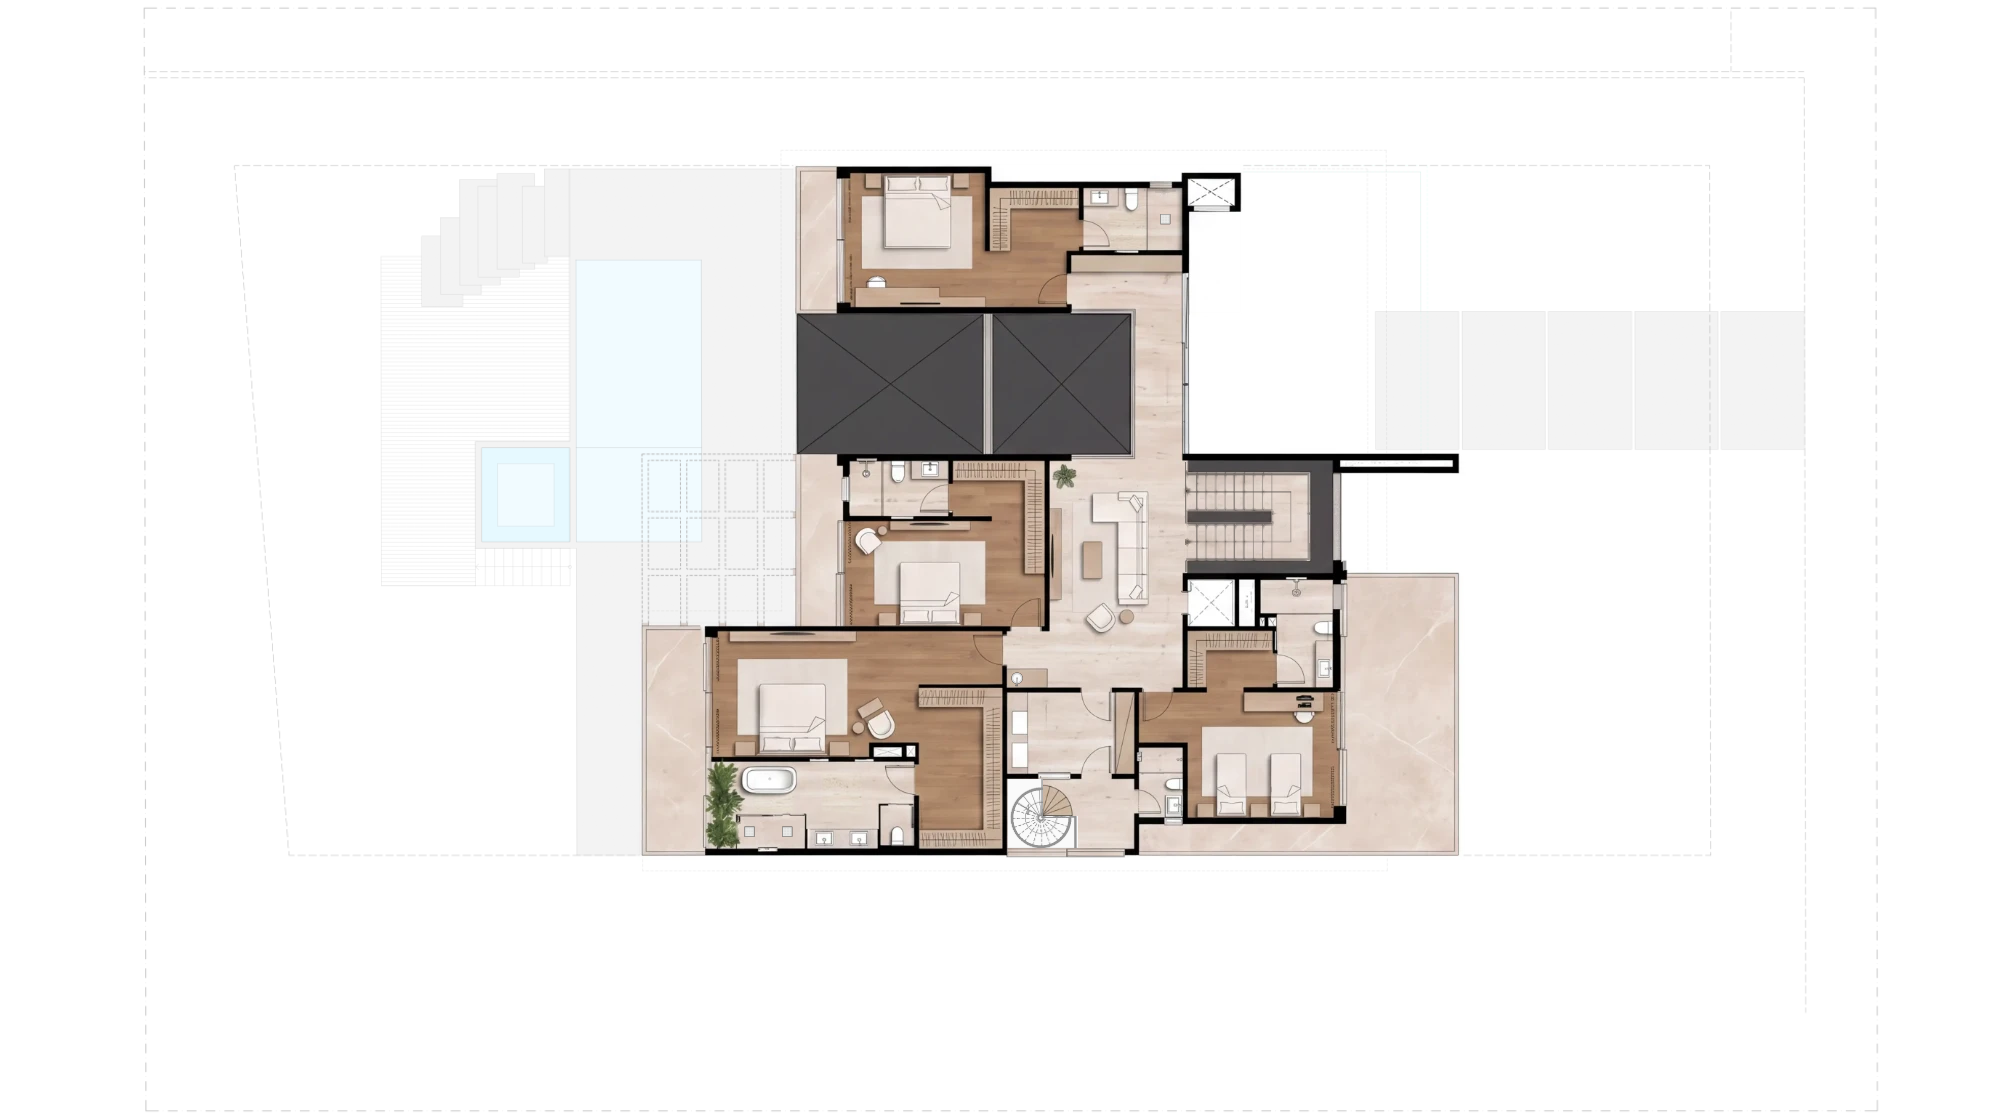
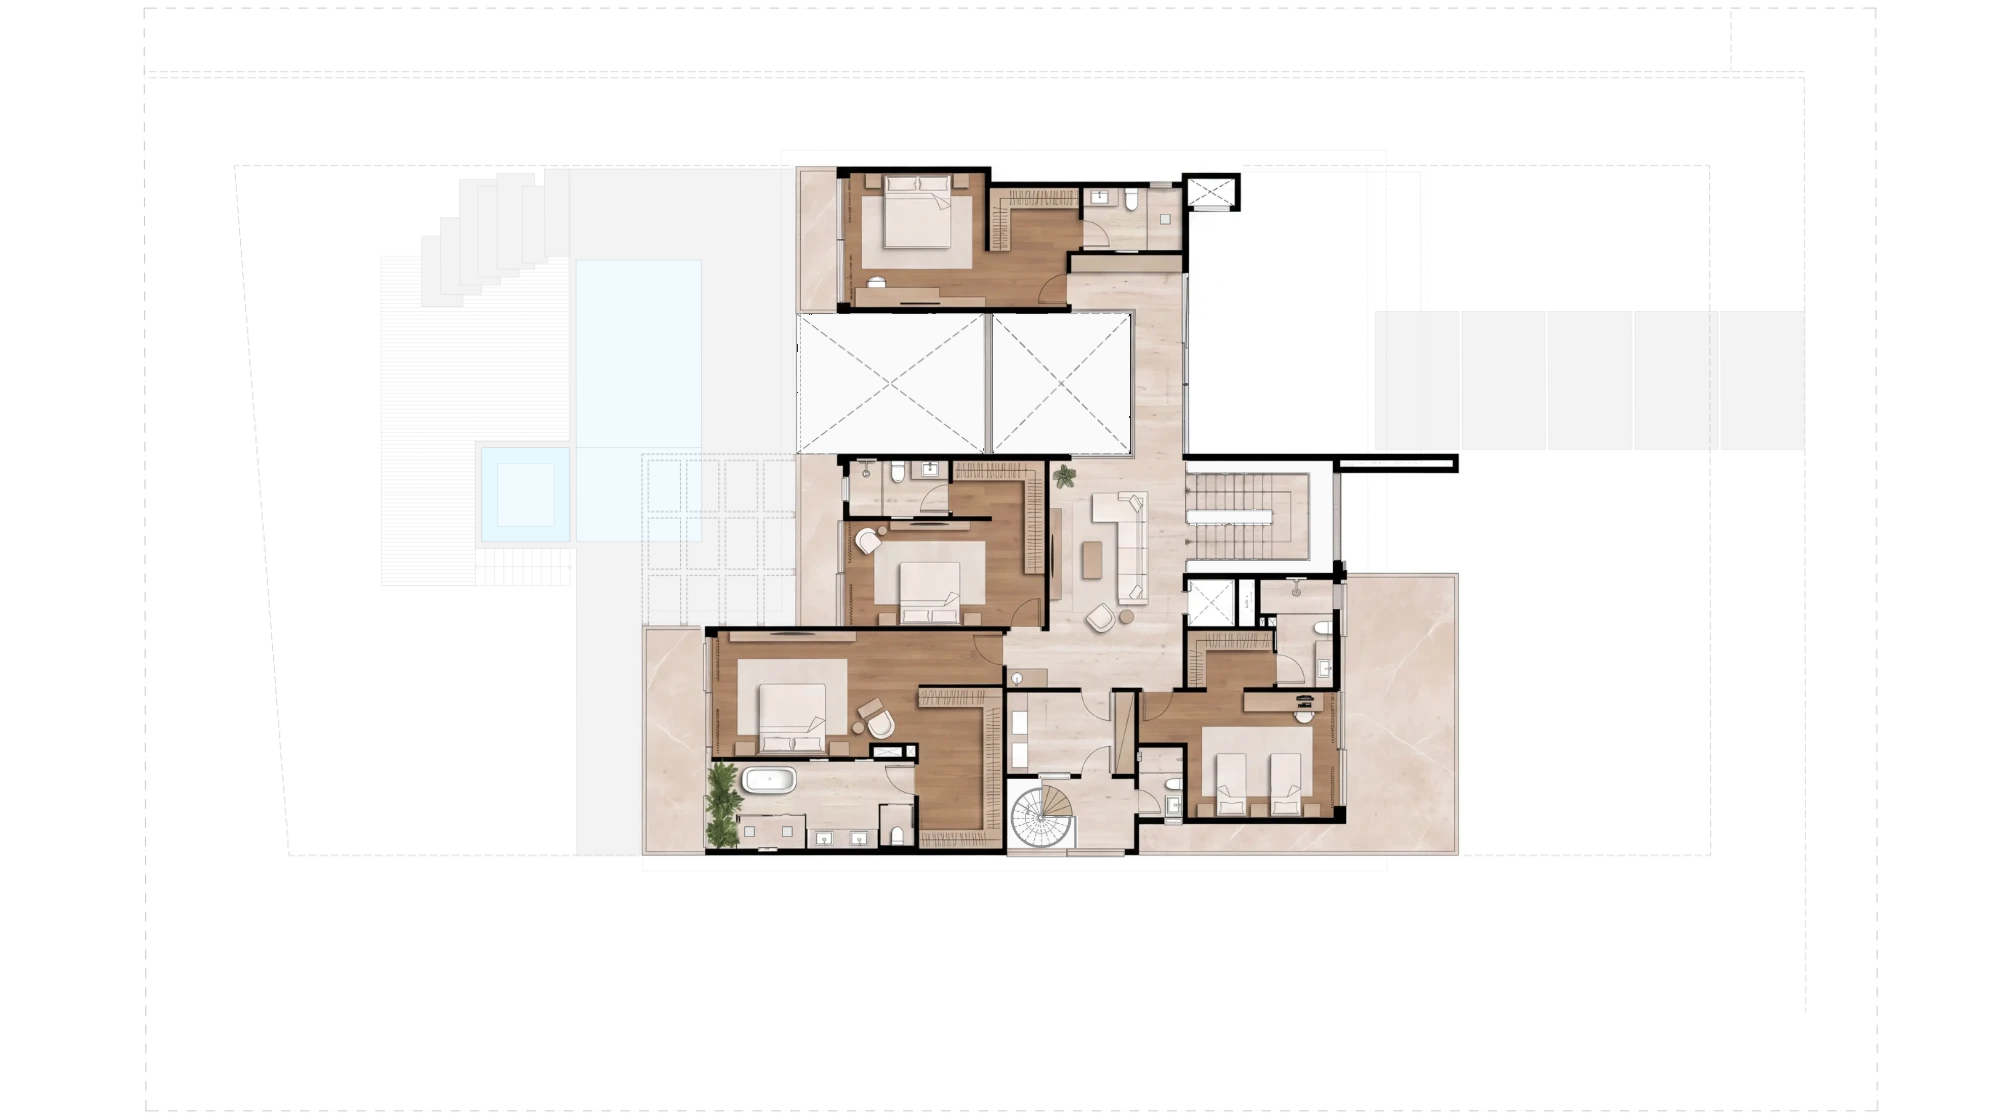
POE 642 Casa A: vãos do 1º Pavimento em branco
O cinza-escuro dos vãos de pé-direito duplo (os dois quadrados, as faixas
em volta da escada em U e o vão entre os lances) vira branco, com o X
tracejado e o contorno do PDF por cima.

Claude-Session: https://claude.ai/code/session_01Mm19WX3KoLN1nXMDF5Ay3F

Changed region(s): [[0.372, 0.2742, 0.589, 0.4265], [0.589, 0.3961, 0.682, 0.5179]]

diff --git a/projetos/POE642_CasaA/scripts/retoque_base_1pav.py b/projetos/POE642_CasaA/scripts/retoque_base_1pav.py
@@ -8,6 +8,7 @@
    do PDF: degraus que descem (contínuos e tracejados), arco central, marcas e as linhas duplas
    que dividem o vão do piso. O quarto creme e o piso em volta ficam do render.
    Na bancada da entrada da suíte master entra a cuba redonda com torneira da base.
+   Os vãos de pé-direito duplo deixam o cinza-escuro e ficam brancos, com o X tracejado do PDF.
 3. Entorno: tudo fora do 1º pavimento (fora dos retângulos 'manter_bbox_vis' do
    esmaecer) passa a ser a base, esmaecida. Isso inclui as pedras de acesso ao hall
    externo, o pergolado tracejado, a piscina, o deck e os contornos.
@@ -171,6 +172,33 @@ def main():
     out[oy:oy + n, ox:ox + n] = (reg * (1 - a) + peq[..., :3] * a).astype(np.uint8)
     alterado[oy:oy + n, ox:ox + n] |= a[..., 0] > 0.02
     print(f"    centro ({ccx:.1f}, {ccy:.1f}), diâmetro {2 * rr:.1f} px")
+
+    # 3c. vãos de pé-direito duplo em branco ------------------------------------------
+    # o cinza-escuro dos vãos (os dois quadrados grandes, as faixas em volta da escada em U e o
+    # vão entre os lances) vira branco, com o X tracejado e as linhas do PDF por cima
+    print("[3c] vãos em branco, com o X tracejado do PDF")
+    lr = lum(out)
+    croma = out.max(axis=2).astype(int) - out.min(axis=2)
+    vaos = np.zeros((H, W), np.uint8)
+    for regra in pav["legenda"]["retangulos"]:
+        if regra.get("para", "").upper() != "#4A4A4A":
+            continue
+        bx0, by0, bx1, by1 = regra["bbox_vis"]
+        q = np.round(np.array([vis_px(bx0, by0), vis_px(bx1, by0), vis_px(bx1, by1), vis_px(bx0, by1)])).astype(np.int32)
+        dentro = np.zeros((H, W), np.uint8)
+        cv2.fillConvexPoly(dentro, q, 1)
+        escuro = ((lr >= 58) & (lr <= 110) & (croma <= 14) & dentro.astype(bool)).astype(np.uint8)
+        # o X claro e as emendas finas ficam dentro do vão
+        escuro = cv2.morphologyEx(escuro, cv2.MORPH_CLOSE, cv2.getStructuringElement(cv2.MORPH_ELLIPSE, (5, 5)))
+        # a borda serrilhada entre o cinza-escuro e o vizinho (travertino, parede) entra no vão:
+        # o contorno limpo volta pelas linhas do PDF
+        borda = cv2.dilate(escuro, np.ones((3, 3), np.uint8)).astype(bool) & (lr >= 45) & (lr < 175) & (croma < 20)
+        vaos |= (escuro.astype(bool) | borda).astype(np.uint8) & dentro
+    alfa_v = (np.clip(cob * 1.6, 0, 0.65) * vaos)[..., None]
+    desenho = np.array([250, 250, 250], np.float32) * (1 - alfa_v) + np.array([92, 92, 92], np.float32) * alfa_v
+    out = np.where(vaos[..., None].astype(bool), desenho, out).astype(np.uint8)
+    alterado |= vaos.astype(bool)
+    print(f"    {int(vaos.sum())} px de vão")
 
     # 4. entorno = base --------------------------------------------------------------
     print("[4] entorno: base esmaecida fora do 1º pavimento")

diff --git a/projetos/POE642_CasaA/scripts/README.md b/projetos/POE642_CasaA/scripts/README.md
@@ -80,6 +80,7 @@ Roda sobre o `_final.png` e usa a base v3 alinhada ao render, por SIFT e transfo
 1. **Escada em U:** apaga as linhas do render por inpaint, mantendo a textura de travertino, e desenha as linhas da base: 9 degraus por lance, linha de descida em U, círculo de partida e seta.
 2. **Saleta da caracol:** a abertura em L em volta da escada é vão e fica branca, com o desenho do PDF tirado da `bases/POE642_CasaA_BASE_1Pavimento_semtexto.png`. Esse desenho tem os degraus que descem (contínuos no quarto de cima à esquerda e tracejados embaixo), o arco central, as marcas e as linhas duplas que dividem o vão do piso. O quarto creme e o piso em volta ficam do render.
    - Na bancada da entrada da suíte master entra a cuba redonda com a torneira saindo da parede de baixo, medida na mesma base.
+   - Os vãos de pé-direito duplo deixam o cinza-escuro e ficam brancos, com o X tracejado e o contorno do PDF. São os dois quadrados grandes, as faixas em volta da escada em U e o vão entre os lances.
 3. **Entorno:** tudo fora dos retângulos `esmaecer.manter_bbox_vis` passa a ser a base esmaecida. Isso inclui as pedras de acesso ao hall externo, o pergolado tracejado, a piscina, o ofurô, o deck e os contornos.
 
 A base é reduzida com média (`INTER_AREA`) antes da afim. O `warpAffine` não faz média, e as linhas finas da base sumiriam aos pedaços.
